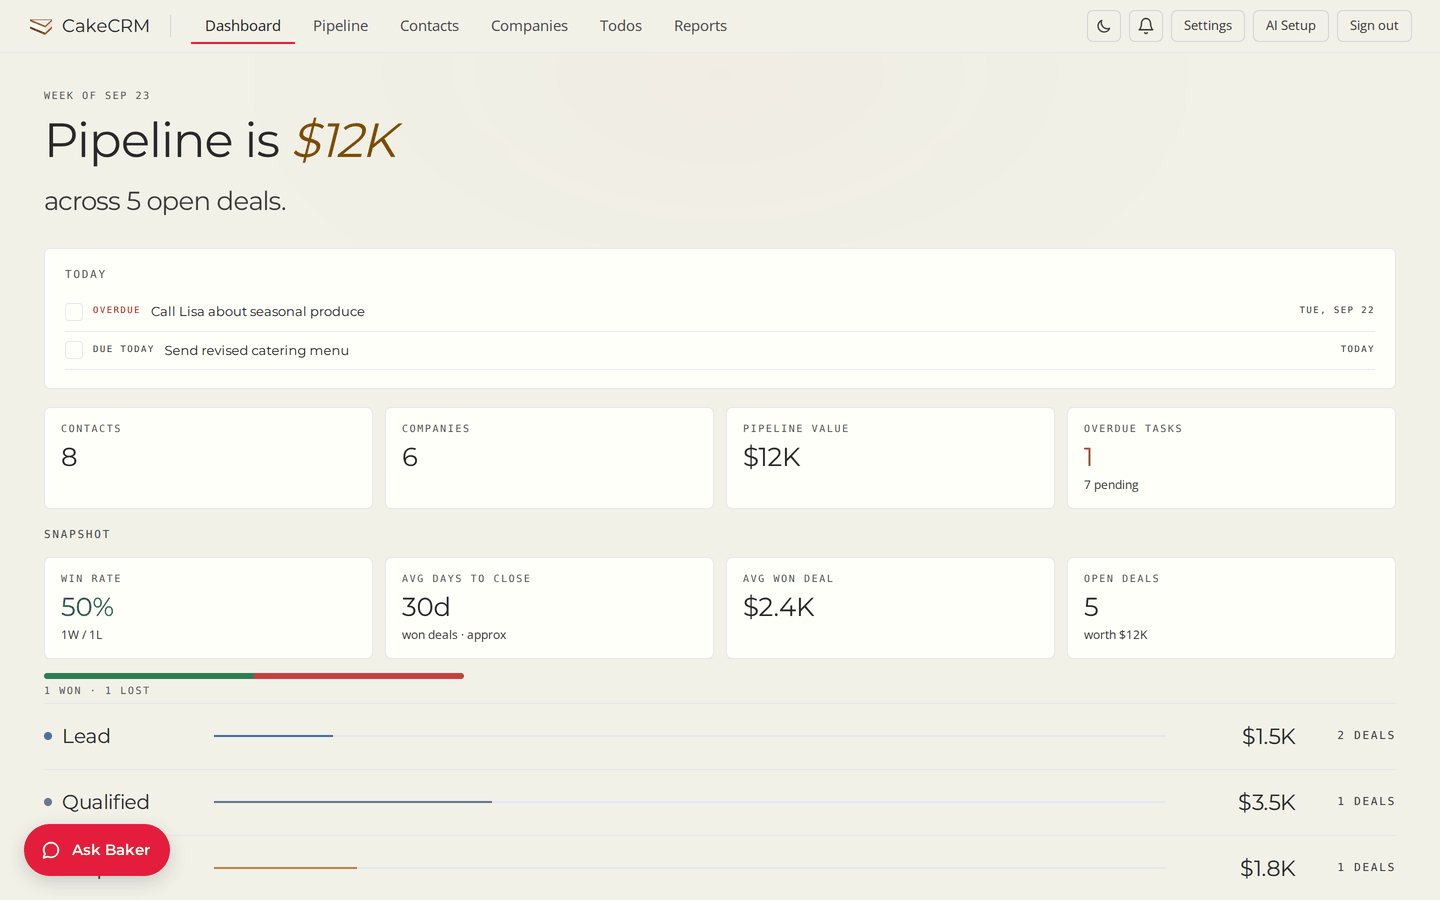
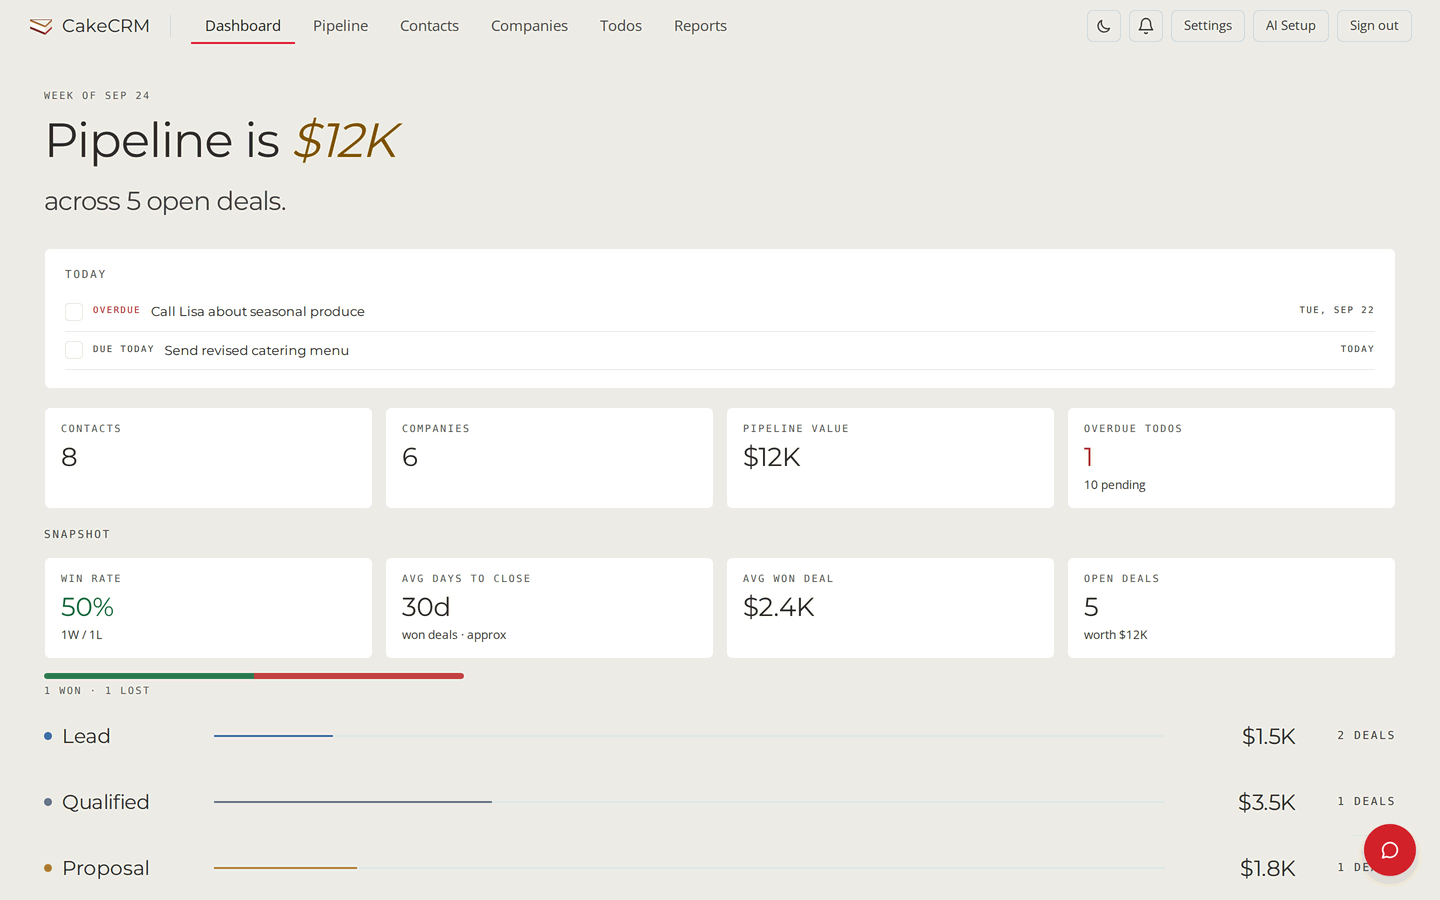
Site: show the Todos app
mycakecrm.com had no Todos screen. Two new figures in the tour, shot from the demo
instance the same way as the other four (reset to sample data, Playwright 1440×900
light at 2×, WebP q82 at 2880 wide, 1440 palettised PNG): the Today tab with its
Overdue and Due today sections, and the Inbox with one captured item on the triage
card and its three numbered step badges (#162). The inbox needed three fictional
captures on top of the sample data, which ships none. One tour item carries both,
with a paragraph saying what Todos is: a GTD-style inbox fed from a no-login
capture link, filed into next actions, no AI key needed. Figures gain a caption
rule in style.css; Baker moves to 05 and the section says six screenshots.

The dashboard shot is re-taken because its stat tile read "Overdue tasks" before
the #169 rename; the other three carried no Tasks label and are unchanged. Its
PNG is quantised with a different palette method than the first attempt, whose
compressed bytes happened to spell a denylisted token and tripped the
genericization guard.

Changed region(s): [[0.0, 0.9022, 0.125, 0.9956], [0.9375, 0.9022, 1.0, 0.9956], [0.75, 0.5289, 0.8125, 0.56]]

diff --git a/website/index.html b/website/index.html
@@ -55,7 +55,7 @@
     <div class="section-head">
       <p class="eyebrow">The tour</p>
       <h2>This is the whole thing.</h2>
-      <p class="section-sub">No modules to buy, no admin console to learn. Four screenshots cover it.</p>
+      <p class="section-sub">No modules to buy, no admin console to learn. Six screenshots cover it.</p>
     </div>
 
     <div class="tour-item">
@@ -103,6 +103,28 @@
     <div class="tour-item">
       <div class="tour-text">
         <p class="tour-num">04</p>
+        <h3>Todos: capture it, file it, do it.</h3>
+        <p>A GTD-style inbox. Anything on your mind goes in &mdash; from your phone, through a no-login capture link &mdash; and stays there until you have said what kind of action it is and where you can do it. Then it is a next action, and Today shows what is overdue or due. No AI key needed.</p>
+      </div>
+      <figure class="frame">
+        <picture>
+          <source srcset="img/todos-today.webp" type="image/webp">
+          <img src="img/todos-today.png" width="1440" height="900" loading="lazy" alt="The CakeCRM Todos page on its Today tab: an Overdue section with a call to make, a Due today section with a menu to send, each linked to its contact or deal, and an add-to-inbox box above them.">
+        </picture>
+        <figcaption>Today: what is overdue and what is due, nothing else.</figcaption>
+      </figure>
+      <figure class="frame">
+        <picture>
+          <source srcset="img/todos-inbox.webp" type="image/webp">
+          <img src="img/todos-inbox.png" width="1440" height="900" loading="lazy" alt="The CakeCRM Todos inbox showing one captured item on a triage card with three numbered steps: what kind of action, add detail, and set context, with two more items waiting below.">
+        </picture>
+        <figcaption>Inbox: three numbered steps turn a captured thought into a next action.</figcaption>
+      </figure>
+    </div>
+
+    <div class="tour-item">
+      <div class="tour-text">
+        <p class="tour-num">05</p>
         <h3>Ask Baker. <span class="muted">Optional.</span></h3>
         <p>Add any AI provider key and Baker reads the deal you have open, checks its health, and tells you the next step in plain words, grounded in what is actually on the card. It can log the call, put a follow-up draft in your Gmail Drafts, and nudge you when a deal goes quiet. It has read the manual too, so &ldquo;how do I&hellip;&rdquo; gets answered without leaving the page. In Ask mode, which is how Baker starts, everyday edits like logging a call or updating a deal go straight in, and anything that deletes, merges, notifies someone or leaves the app waits for your approval. There is an Auto mode that runs everything without asking, and switching it on is your call. Skip the key and the CRM is still the whole CRM.</p>
       </div>

diff --git a/website/style.css b/website/style.css
@@ -133,6 +133,7 @@ p { margin: 0; }
   box-shadow: 0 24px 60px -24px var(--shadow), 0 2px 6px -2px var(--shadow);
 }
 .frame img { border-radius: 8px; }
+.frame figcaption { color: var(--ink-mute); font-size: 0.9rem; padding: 0.6rem 0.5rem 0.3rem; }
 
 /* Sections */
 .section { padding: clamp(4rem, 10vw, 7rem) 0 clamp(3rem, 7vw, 5rem); }
